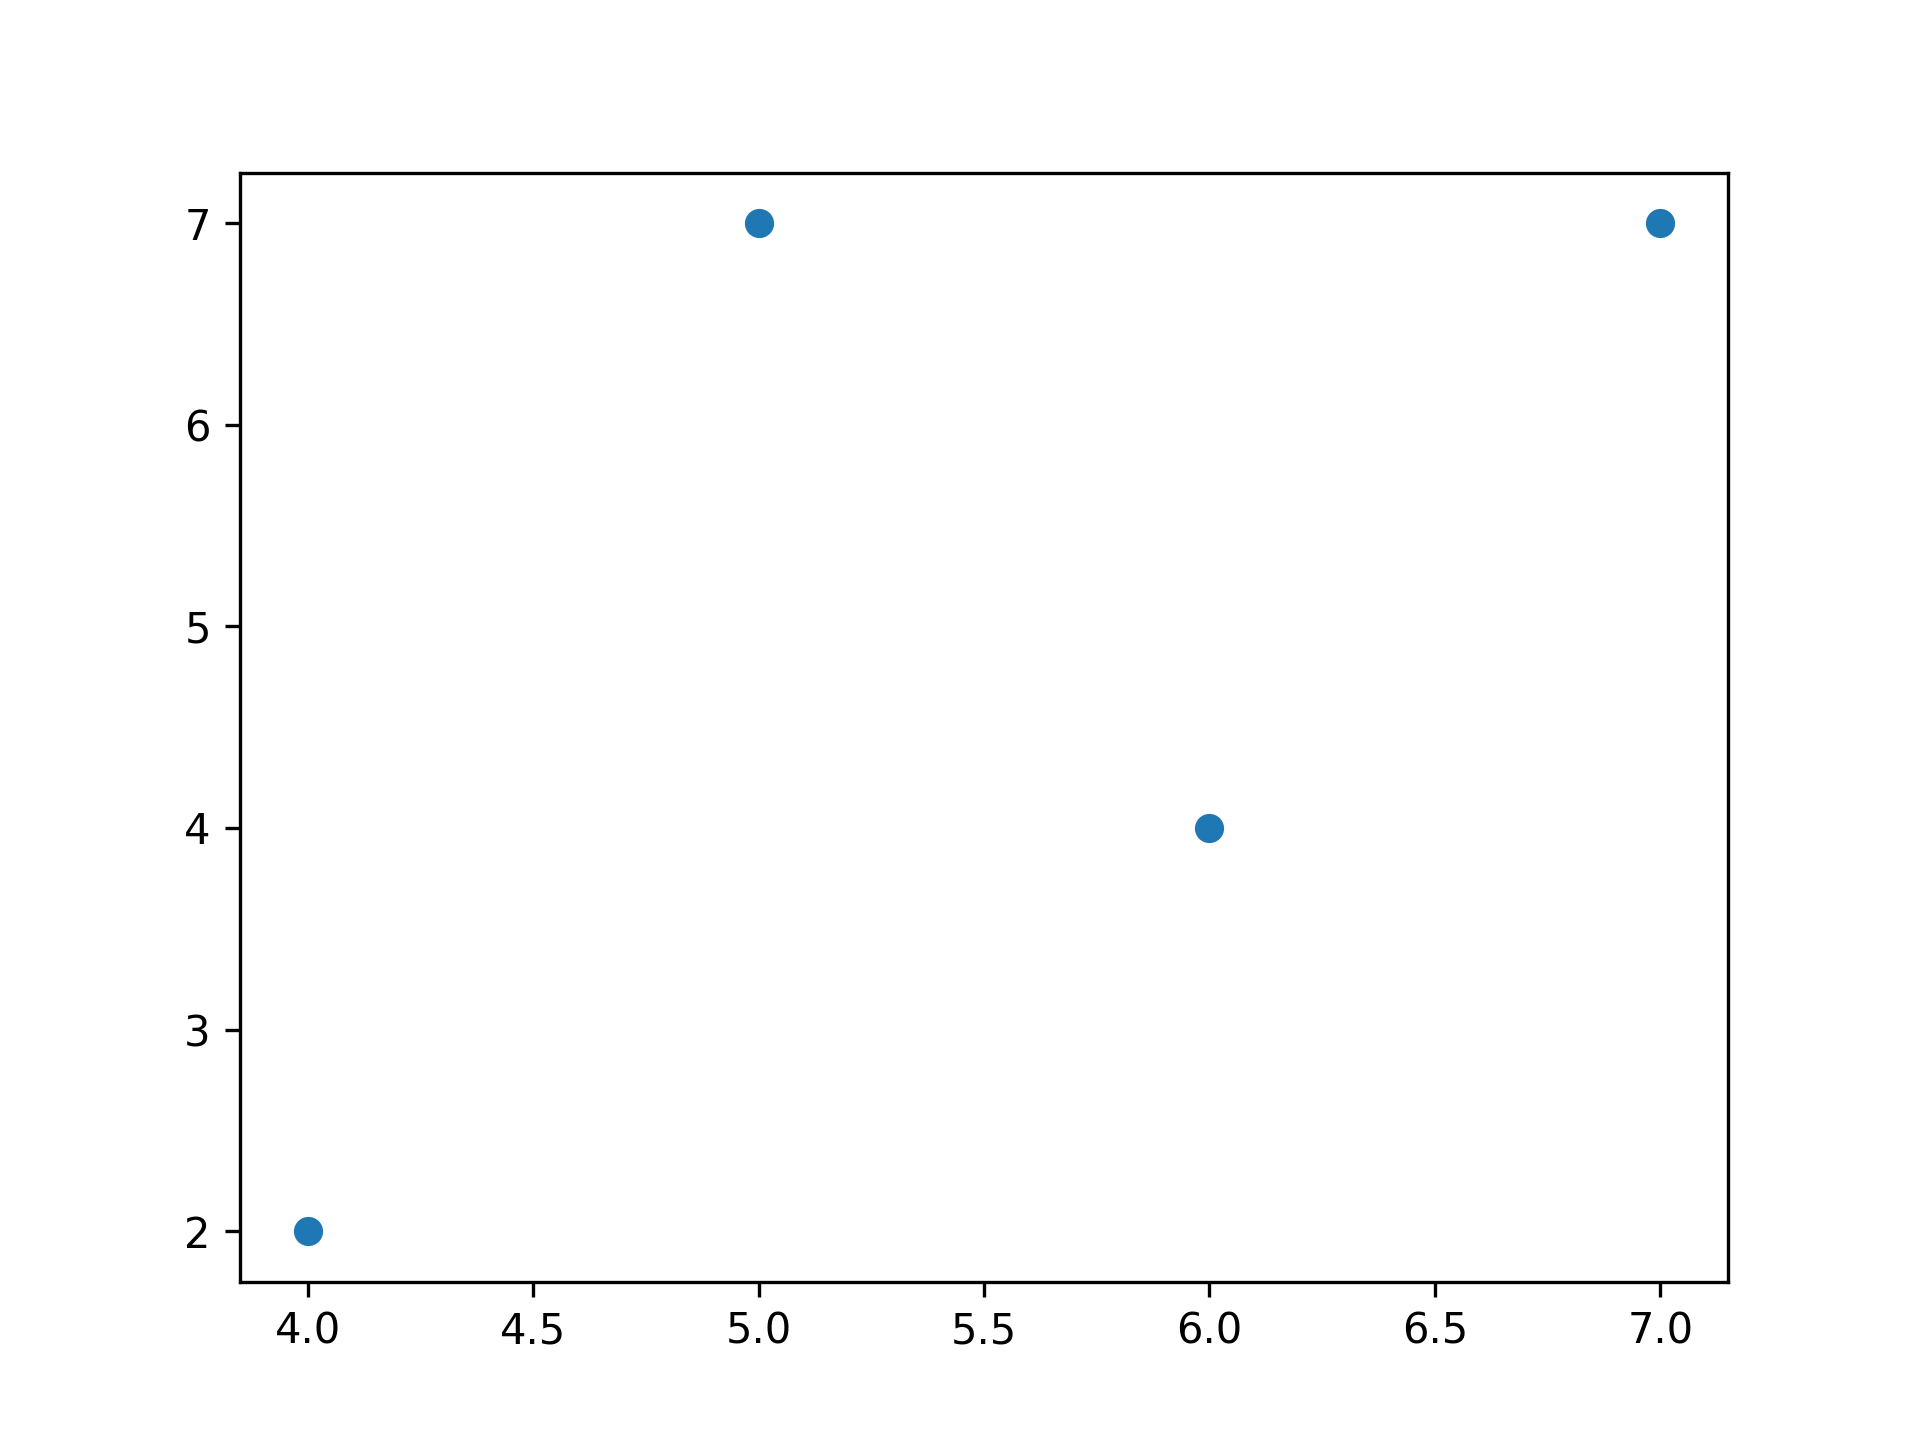
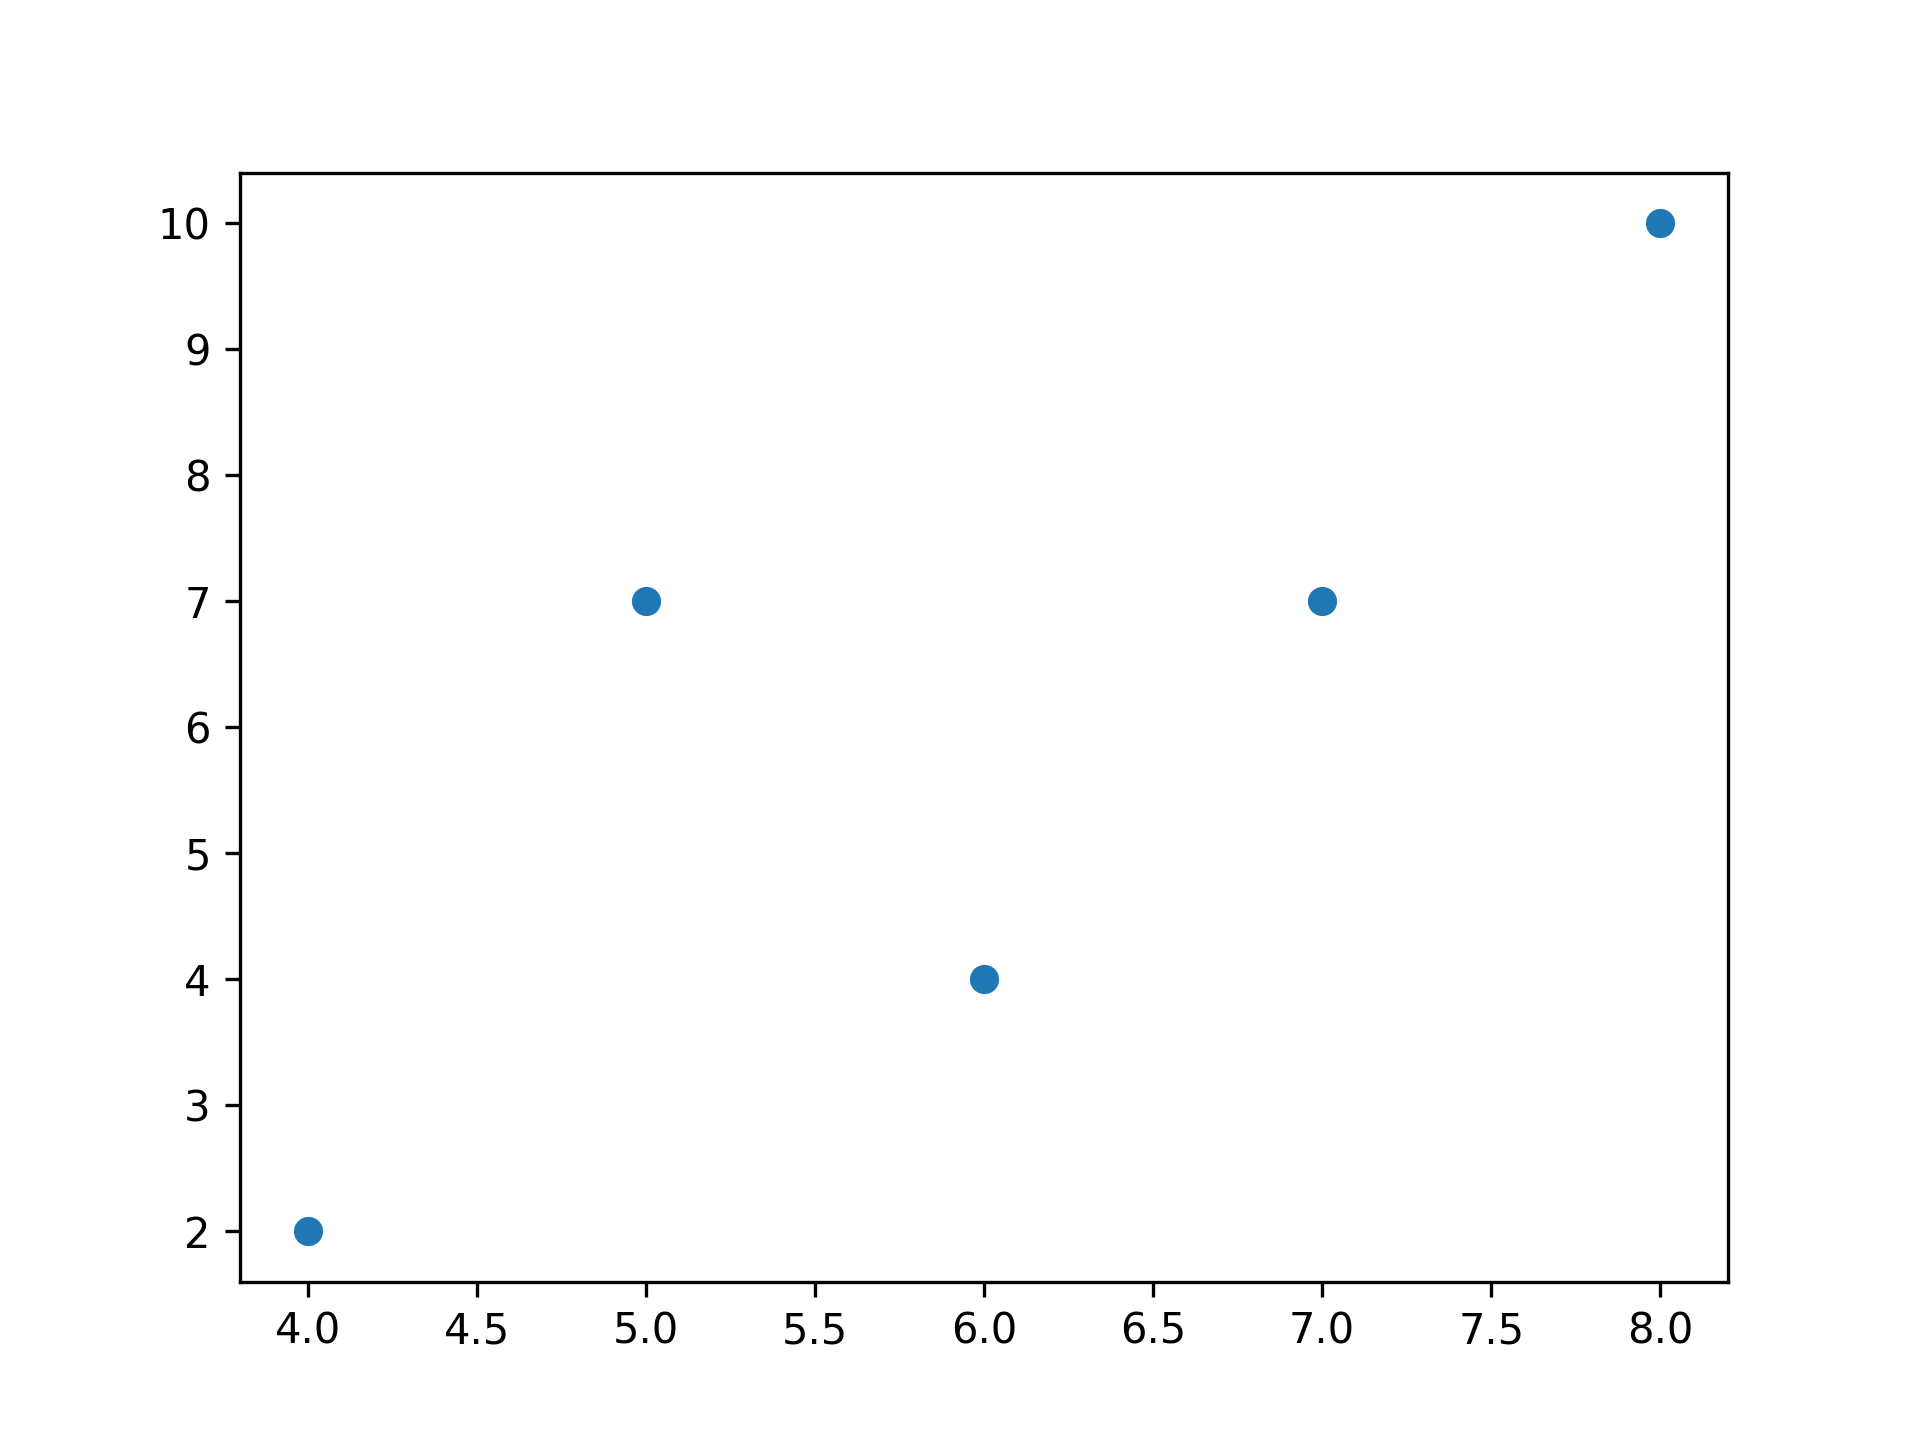
testing

diff --git a/kumar.py b/kumar.py
@@ -1,5 +1,5 @@
 import matplotlib.pyplot as plt
-x=[4,5,6,7]
-y=[2,7,4,7]
+x=[4,5,6,7,8]
+y=[2,7,4,7,10]
 plt.scatter(x,y)
 plt.savefig("scatterplot.png",dpi=300)
